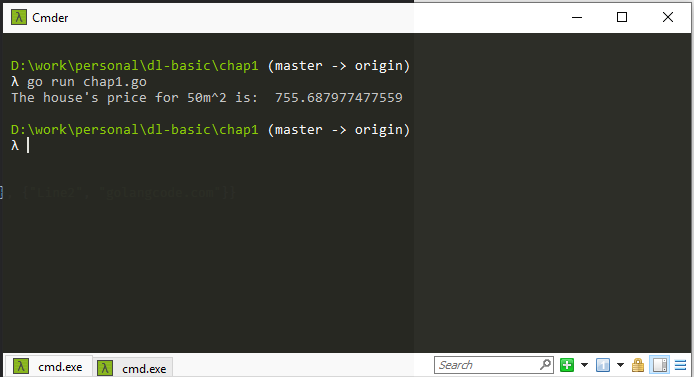
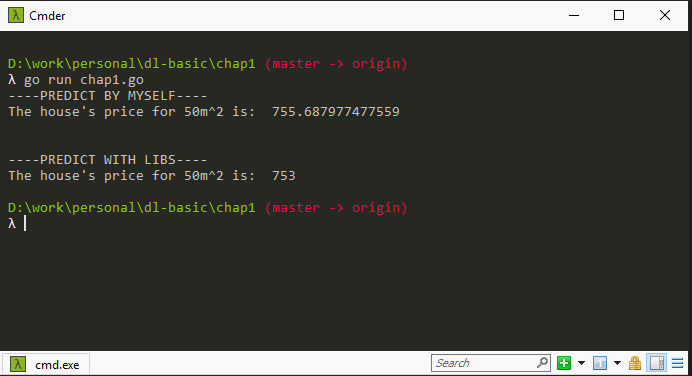
add test with libs

diff --git a/chap1/libs/chap1_with_libs.go b/chap1/libs/chap1_with_libs.go
@@ -1,0 +1,27 @@
+package libs
+
+import (
+	"fmt"
+	"strconv"
+
+	"github.com/sjwhitworth/golearn/base"
+	"github.com/sjwhitworth/golearn/linear_models"
+)
+
+func PredictWithLibs() {
+	trainData, _ := base.ParseCSVToInstances("data_linear.csv", true)
+	testData, _ := base.ParseCSVToInstances("data_test.csv", true)
+	lr := linear_models.NewLinearRegression()
+	lr.Fit(trainData)
+
+	predictions, _ := lr.Predict(testData)
+
+	_, rows := predictions.Size()
+	// fmt.Println(predictions)
+
+	for i := 0; i < rows; i++ {
+		// actualValue, _ := strconv.ParseFloat(base.GetClass(testData, i), 64)
+		expectedValue, _ := strconv.ParseFloat(base.GetClass(predictions, i), 64)
+		fmt.Println("The house's price for 50m^2 is: ", expectedValue)
+	}
+}

diff --git a/chap1/chap1.go b/chap1/chap1.go
@@ -1,6 +1,7 @@
 package main
 
 import (
+	"chap1/libs"
 	"encoding/csv"
 	"fmt"
 	"io"
@@ -84,7 +85,10 @@ func main() {
 
 	x1 := float64(50)
 	y1 := w[0][0] + w[0][1]*x1
+	fmt.Println("----PREDICT BY MYSELF----")
 	fmt.Println("The house's price for 50m^2 is: ", y1)
+	fmt.Println("\n\n----PREDICT WITH LIBS----")
+	libs.PredictWithLibs()
 }
 
 func writePredict(root [][]float64, predict [][]float64) {
